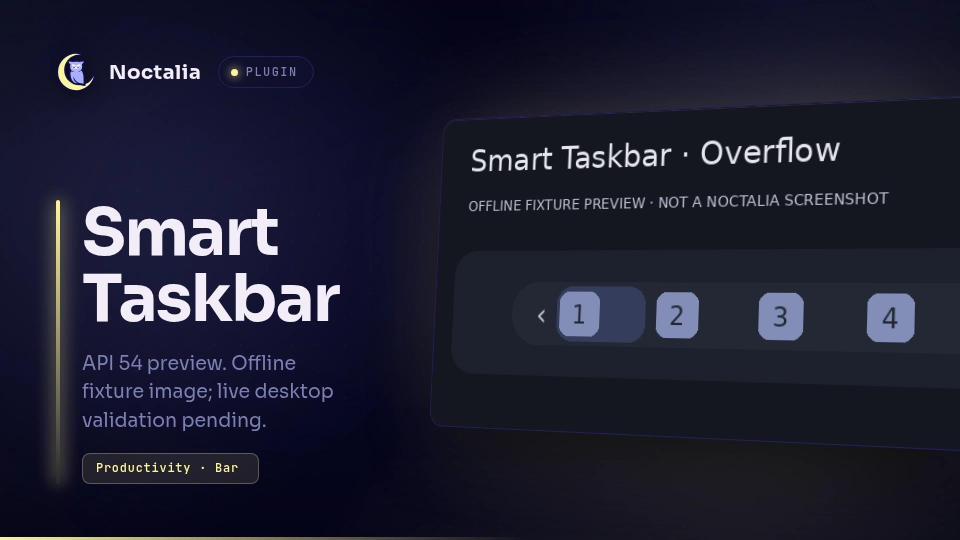
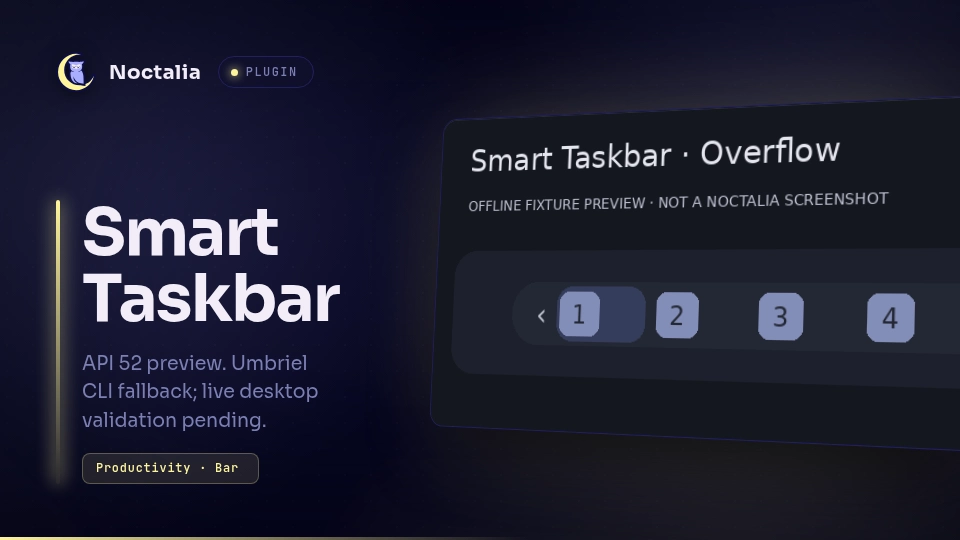
Support Umbriel on API 52 and 53 with a reconnecting public CLI stream

Changed region(s): [[0.0625, 0.6519, 0.3438, 0.7407]]

diff --git a/tests/stream_test.py b/tests/stream_test.py
@@ -1,0 +1,80 @@
+#!/usr/bin/env python3
+"""Exercise the shipped shell program with a fake Umbriel CLI, real pipes and signals.
+This tests framing/reconnect/process-group cleanup, not a running compositor or Noctalia.
+"""
+import json
+import os
+from pathlib import Path
+import selectors
+import signal
+import subprocess
+import sys
+import tempfile
+import time
+import unittest
+
+ROOT = Path(__file__).resolve().parents[1]
+COMMAND = (ROOT/'smart-taskbar/lib/transport.luau').read_text().split('M.umbrielCommand = [[',1)[1].split(']]',1)[0]
+
+class StreamTest(unittest.TestCase):
+    def test_reconnect_and_process_group_cleanup(self):
+        with tempfile.TemporaryDirectory() as directory:
+            temp = Path(directory)
+            cli = temp/'umbriel'
+            cli.write_text('#!'+sys.executable+'\n'+'''
+import json, os, pathlib, sys, time
+assert sys.argv[1:] == ["subscribe", "windows", "workspaces"]
+state = pathlib.Path(os.environ["STREAM_TEST_STATE"])
+with state.open("a") as f: f.write(str(os.getpid()) + "\\n")
+connection = len(state.read_text().splitlines())
+if connection == 1:
+    print(json.dumps({"event":"windows","data":[{"id":"one"}]}),flush=True)
+else:
+    print(json.dumps({"event":"workspaces","data":[]}),flush=True)
+    time.sleep(60)
+''')
+            cli.chmod(0o755)
+            state=temp/'pids'
+            env=dict(os.environ,PATH=directory+os.pathsep+os.environ['PATH'],STREAM_TEST_STATE=str(state))
+            process=subprocess.Popen(['/bin/sh','-c',COMMAND],env=env,stdout=subprocess.PIPE,
+                                     stderr=subprocess.PIPE,start_new_session=True)
+            selector=selectors.DefaultSelector()
+            selector.register(process.stdout,selectors.EVENT_READ)
+            pending=b''
+            messages=[]
+            try:
+                deadline=time.monotonic()+10
+                while len(messages)<5 and time.monotonic()<deadline:
+                    for key,_ in selector.select(timeout=0.2):
+                        chunk=os.read(key.fileobj.fileno(),65536)
+                        self.assertTrue(chunk,'stream unexpectedly exited')
+                        pending+=chunk
+                        while b'\n' in pending:
+                            line,pending=pending.split(b'\n',1)
+                            messages.append(json.loads(line))
+                self.assertEqual([m['event'] for m in messages],
+                                 ['reset','windows','reset','reset','workspaces'])
+                self.assertEqual(messages[1]['data'][0]['id'],'one')
+                self.assertEqual(len(state.read_text().splitlines()),2)
+                # An idle, connected CLI must not be restarted by a timer.
+                self.assertFalse(selector.select(timeout=0.2))
+                self.assertEqual(len(state.read_text().splitlines()),2)
+            finally:
+                os.killpg(process.pid,signal.SIGTERM)
+                process.wait(timeout=5)
+                selector.close()
+                process.stdout.close()
+                process.stderr.close()
+            deadline=time.monotonic()+3
+            while time.monotonic()<deadline:
+                running=[]
+                for pid in state.read_text().splitlines():
+                    status=Path('/proc')/pid/'stat'
+                    if status.exists() and status.read_text().split(') ',1)[1][0] != 'Z':
+                        running.append(pid)
+                if not running: break
+                time.sleep(0.05)
+            self.assertEqual(running,[], 'CLI child survived cancellation')
+
+if __name__=='__main__':
+    unittest.main()

diff --git a/tests/run.py b/tests/run.py
@@ -21,18 +21,21 @@ def lua(value):
         return 'true' if value else 'false'
     return json.dumps(value, ensure_ascii=False)
 
-def main():
+def run_suite(fallback=False):
     manifest = tomllib.loads((PLUGIN / 'plugin.toml').read_text())
     defaults = {s['key']: s['default'] for s in manifest['widget'][0]['setting']}
     source = 'local defaults = ' + lua(defaults) + '\n'
     source += (ROOT / 'tests/host.luau').read_text() + '\n'
-    for name in ('model', 'compositor'):
+    if fallback:
+        source += (ROOT / 'tests/fallback-host.luau').read_text() + '\n'
+    for name in ('model', 'compositor', 'transport'):
         source += 'local module_' + name + ' = (function()\n'
         source += (PLUGIN / 'lib' / (name + '.luau')).read_text() + '\nend)()\n'
     widget = (PLUGIN / 'widget.luau').read_text()
     widget = widget.replace('require("./lib/model.luau")', 'module_model')
     widget = widget.replace('require("./lib/compositor.luau")', 'module_compositor')
-    source += widget + '\n' + (ROOT / 'tests/spec.luau').read_text()
+    widget = widget.replace('require("./lib/transport.luau")', 'module_transport')
+    source += widget + '\n' + (ROOT / ('tests/fallback-spec.luau' if fallback else 'tests/spec.luau')).read_text()
     with tempfile.TemporaryDirectory() as temp:
         entry = Path(temp) / 'suite.luau'
         entry.write_text(source)
@@ -49,4 +52,5 @@ def main():
             (output / 'trees.json').write_text(json.dumps(snapshots, indent=2))
 
 if __name__ == '__main__':
-    main()
+    run_suite()
+    run_suite(fallback=True)

diff --git a/scripts/check.py b/scripts/check.py
@@ -10,7 +10,7 @@ manifest = tomllib.loads((plugin/'plugin.toml').read_text())
 catalog = tomllib.loads((root/'catalog.toml').read_text())['plugin'][0]
 for key, value in catalog.items():
     assert manifest[key] == value, f'Catalog drift: {key}'
-assert manifest['plugin_api'] == 54
+assert manifest['plugin_api'] == 52
 assert len(manifest['widget']) == 1
 assert not any(key in manifest for key in ('service', 'panel', 'layer'))
 translations = json.loads((plugin/'translations/en.json').read_text())
@@ -29,7 +29,8 @@ for entry in plugin.rglob('*.luau'):
     text = entry.read_text()
     assert text.startswith('--!nonstrict')
     assert 'ui.scroll' not in text
-    assert 'noctalia.runStream' not in text
+    if entry.name != 'transport.luau':
+        assert 'runStream(' not in text
 assert (plugin/'LICENSE').is_file()
 assert len(list((plugin/'screenshots').glob('*.png'))) == 4
 print('PASS catalog consistency, setting defaults/translations, single-entry architecture, and package assets')

diff --git a/docs/API.md b/docs/API.md
@@ -29,7 +29,7 @@ References were read before implementation on 2026-11-13:
 | Palette | Public theme roles including containers, API 43; the host repaints on palette changes |
 | Icons | Cached public `appIconPath`, including host desktop matching; no icon subprocesses |
 | Umbriel actions | `noctalia.umbriel.action`, API 45, `window-focus`, `window-close`, `window-minimize` as used by Noctalia's Umbriel backend |
-| Events | `noctalia.compositor.subscribe/unsubscribe/name`, API 54; raw Umbriel and niri schemas |
+| Events | API 54 native subscriptions when available; API 52/53 Umbriel uses public `runStream` and `umbriel subscribe windows workspaces` |
 | niri actions | CLI argument arrays only on user action; no native niri action method exposed to plugins |
 | Context menu | `panel.openContextMenu` is panel-only; no extra panel added for this single-widget release |
 | Pin/unpin | Settings API is read-only. Pin lists are edited in normal widget settings |
@@ -37,16 +37,26 @@ References were read before implementation on 2026-11-13:
 | Workspace grouping | Representative app icon for workspace groups; window counts cover the full group |
 | Manual persistence | In-memory per instance; no undocumented settings write or state file |
 
-The newest capability actually used is API 54, so `plugin_api = 54` is necessary. The official versions page labels API 44–54 unreleased. A generic “v5+ compatible” claim would be misleading; older stable releases cannot enable this plugin. There is no invented lower-API fallback.
+Version 0.1.1 requires API 52 for public container clipping. Native API 54 subscriptions are optional and used only after feature detection. On API 52/53, Umbriel events use its documented CLI through `runStream`, an existing public plugin API. Match the host’s reported API range instead of assuming every build with the same version label exposes identical capabilities. The user reported Noctalia v5.4.1 (`b096daa`) with API range 3–53; the published upstream v5.4.1 tag fetched separately reports an earlier API ceiling, so this compatibility claim is explicitly based on API level rather than all v5.4.1 packages.
 
 ## Compositor evaluation
 
 Umbriel is implemented using window/workspace snapshots and typed native actions. Core `umbriel_workspace_backend.cpp` provides the reference field/action names; the plugin does not call the C++ backend or other private interfaces. Workspace-to-output mapping prefers workspace snapshot output and falls back to Umbriel's connector-prefixed workspace IDs. Scratchpads without a workspace are hidden, following the core taskbar.
 
-niri is implemented with native `WindowsChanged`, `WindowOpenedOrChanged`, `WindowClosed`, `WindowFocusChanged`, `WorkspacesChanged`, and `WorkspaceActivated` events. Focus and close use `niri msg action ... --id`. Minimize is unavailable. Compositor integration has fixture coverage only.
+On API 54+, niri is implemented with native `WindowsChanged`, `WindowOpenedOrChanged`, `WindowClosed`, `WindowFocusChanged`, `WorkspacesChanged`, and `WorkspaceActivated` events. Focus and close use `niri msg action ... --id`. Minimize is unavailable. Compositor integration has fixture coverage only.
 
 Hyprland subscriptions are available, but provide string deltas and no initial snapshot or native plugin action method. Correct support needs an asynchronous, coalesced `hyprctl -j clients` / workspace snapshot reconciler, including reconnect races and address validation. This release deliberately declines that backend; it does not spawn repeated commands or pretend the normalized Umbriel schema applies to Hyprland. Sway/Mango/labwc/KDE subscriptions are not exposed by API 54 and also degrade to a placeholder.
 
 ## Missing capability
 
 Continuous pointer scrolling requires a native bar-compatible scroll viewport or continuous delta/offset API. Paint transforms and clipping alone do not provide native inertia or reliable pixel scrolling. The focused upstream request is prepared in [upstream-scroll-request.md](upstream-scroll-request.md). GitHub rejected issue creation with HTTP 403, so it has not been filed.
+
+## API 52/53 Umbriel transport
+
+The public [Umbriel IPC documentation](https://github.com/noctalia-dev/umbriel/blob/main/docs/user/ipc.md), reviewed at commit `33a782dc750e78f0ef2d21fd9d3df33229ae06f9`, specifies full snapshot subscriptions with initial state. Its CLI `umbriel subscribe windows workspaces` forwards newline-delimited event envelopes and explicitly flushes stdout after each line. `src/cli/ipc_client.cpp` and `src/main.cpp` confirm framing and command arguments.
+
+`lib/transport.luau` uses one constant, non-interpolated shell program through public `runStream`. The shell runs the subscription, emits reset envelopes before/after connections, and waits two seconds before reconnecting after disconnection. A healthy stream performs no window queries and has no periodic subprocess work. No helper daemon or additional scripting runtime is needed; dependencies are the existing `umbriel` CLI and standard `sleep` utility. Native window actions remain `noctalia.umbriel.action` (API 45).
+
+Noctalia’s process implementation creates a process group and cancels the group on `runStream` teardown. Because there is no individual public stream-stop method, compatibility-setting toggles detach delivery while retaining one connection and the latest full snapshots until reload/disable. Resuming replays snapshots without creating another stream. Host teardown owns shell, CLI and sleep cleanup. The real-pipe integration test verifies equivalent process-group termination with a fake CLI; actual Noctalia teardown still needs desktop acceptance.
+
+The fallback never touches `noctalia.compositor` methods when the namespace is absent. On API 52/53, niri and other compositors remain placeholders; this release does not invent a native action or event method for them.

diff --git a/smart-taskbar/README.md b/smart-taskbar/README.md
@@ -2,7 +2,7 @@
 
 A compact, collapsible application switcher with grouped window counts, focused-application reveal, and a bounded wheel-navigable icon strip. Uses one Luau bar widget and Noctalia's active theme roles.
 
-**Preview release:** requires **plugin API 54**, currently marked unreleased in the official documentation. This is not compatible with all Noctalia v5 versions. Desktop acceptance testing is pending; the images below are clearly labeled offline fixture renders, not live screenshots.
+**Preview release:** requires **plugin API 52 or newer**. Umbriel uses a CLI event stream on API 52/53 and native subscriptions on API 54+. This is not compatible with all Noctalia v5 versions. Desktop acceptance testing is pending; the images below are clearly labeled offline fixture renders, not live screenshots.
 
 ## Plugin
 
@@ -15,8 +15,9 @@ A compact, collapsible application switcher with grouped window counts, focused-
 
 ## Requirements
 
-- A Noctalia build supporting plugin API 54; Umbriel is the primary target.
-- `niri` is required on PATH only when running under niri, for focus/close actions. Events use the host's native subscription, without subprocess polling.
+- A Noctalia build supporting plugin API 52 or newer; Umbriel is the primary target. Check the supported API range rather than relying only on the Noctalia version label.
+- `umbriel` and `sleep` are required on PATH for the API 52/53 fallback. `sleep` is a standard system utility; `umbriel` is the compositor’s own CLI.
+- `niri` is required on PATH only when running under niri on API 54+, for focus/close actions. niri events use the host's native subscription. On API 52/53, niri shows a placeholder.
 - `gtk-launch` is required on PATH only to launch pinned desktop entries. On many distributions it is supplied by GTK's utilities package. Enter desktop-entry IDs with their original case.
 - Hyprland, Sway, Mango, labwc, and KDE currently show a placeholder. They do not receive guessed or unverified actions.
 
@@ -104,7 +105,7 @@ All settings use `[[widget.setting]]`, with English labels, descriptions, defaul
 | `middle_click` | `"settings"` | Host defaults to widget settings. To use these actions, explicitly set this instance’s actions.middle = "none". |
 | `refresh_fallback` | `60` | Seconds between idle subscription retries if a supported compositor could not subscribe. No subprocess polling. |
 | `diagnostic_logging` | `false` | Log subscription and action errors. Window titles are not logged. |
-| `compositor_compatibility` | `"auto"` | Unsupported compositors show a placeholder. API 54 is required even in automatic mode. |
+| `compositor_compatibility` | `"auto"` | Unsupported compositors show a placeholder. Umbriel supports API 52+. niri requires API 54 for native events. |
 
 ## IPC
 
@@ -136,6 +137,17 @@ Application IDs are normalized for grouping without fuzzy-merging distinct appli
 
 Native context menus are only public for panels, so this single-widget plugin offers settings on right click. There is no fabricated bar context menu or runtime Pin/Unpin operation. Animations fade expanded content briefly at 30 Hz; no frame loop runs while idle. Manual order is not persisted, workspace sorting follows snapshot order/index, and launch order means first observed since connection.
 
-The plugin makes **no network calls and no filesystem writes**. It uses one native compositor subscription per widget instance, cached host icon lookup, and host actions. Only explicit pin launches and niri window actions spawn processes. No repeated subprocesses run per icon or frame. Theme colors remain role references and follow host palette changes without a private theme API.
+The plugin makes **no network calls and no filesystem writes**. On API 54+ it uses one native compositor subscription per widget instance. On API 52/53 with Umbriel, it uses one host-managed `runStream` shell running `umbriel subscribe windows workspaces`. It reconnects two seconds after a disconnection and clears stale snapshots. A healthy stream is idle until an event arrives; no repeated window queries run. The shell, CLI, and reconnect sleep are in Noctalia’s process group and are canceled on widget reload/disable. A compatibility-setting toggle pauses delivery and replays cached full snapshots on resume, keeping the same single stream until teardown. Explicit pin launches and niri window actions also spawn processes. No subprocesses run per icon or frame. Theme colors remain role references and follow host palette changes without a private theme API.
 
 Installation commands and placement syntax were checked against official documentation. Manifest and Luau fixture tests ran; enabling, adding the widget, real pointer behavior, multi-monitor scaling, hot reload, compositor restarts, and resource measurements still require a live Noctalia session. See the source repository's `docs/TESTING.md` for the complete acceptance matrix. Do not interpret this preview as production acceptance.
+
+## Update from 0.1.0 on Umbriel
+
+Version 0.1.1 removes the API 54 event-subscription requirement for Umbriel. Its minimum is API 52 because the viewport uses public container clipping. Run:
+
+```sh
+noctalia msg plugins update smart-taskbar
+noctalia msg plugins enable omardardery/smart-taskbar
+```
+
+Use the source name you originally added if it differs from `smart-taskbar`. The plugin version should show **0.1.1** and API **52**. Then add the widget in Bar settings. Native desktop acceptance is still pending.

diff --git a/docs/TESTING.md b/docs/TESTING.md
@@ -4,13 +4,15 @@ Executed on 2026-11-13 in the attached Linux cloud environment.
 
 ## Checks that actually ran
 
-- **24 executable Luau fixture tests passed.** The harness executes the shipped model, compositor adapter, and widget entry with deterministic public host functions, event callbacks, UI constructors, and a simulated clock. It does not emulate native layout or real input delivery.
+- **34 executable Luau fixture tests passed** (24 existing scenarios plus 10 API 52/53 compatibility tests). The harness executes the shipped model, compositor adapter, and widget entry with deterministic public host functions, event callbacks, UI constructors, and a simulated clock. It does not emulate native layout or real input delivery.
 - **2,275 layout combinations** exercised within the width test: maximum extents 48–496 by 7, icon sizes 12–48 by 6, and counts 0/1/5/16/100. Includes cross-field minimum width exceeding maximum width. Every computed root extent stayed within its maximum; capacity never became zero.
 - Default side-bar tree width fits the standard 34-pixel bar; vertical main-axis extent is bounded. This is a tree assertion, not a rendered DPI check.
 - **Official community manifest validation passed**, using exact community-pinned validator commit `99a892dc9cb3490634412701c45acd024fe0383b`.
 - **All 178 tests of that official validator passed.** Those tests validate the validator, not Smart Taskbar's desktop behavior.
-- All three shipped Luau files compiled with the official `luau-compile --null` command. Luau CLI commit: `f46d879e28302a430029304f7f6a162aed66f103`.
+- All four shipped Luau files compiled with the official `luau-compile --null` command. Luau CLI commit: `f46d879e28302a430029304f7f6a162aed66f103`.
 - Additional package checks verify custom catalog consistency, setting defaults/translations, the single-widget architecture, and required assets.
+- **One real-pipe shell integration test passed** with a fake Umbriel CLI: exact command arguments, JSON-line snapshot forwarding, reset on disconnect, two-second reconnect, no restarts while connected/idle, and child-process cleanup on process-group cancellation. This does not start a real compositor or Noctalia.
+- The API 52/53 harness runs the actual entry with `noctalia.compositor` absent, covering startup, grouped actions, malformed lines, reconnect resets, cached replay without duplicate streams, missing commands, idle updates, and exit callback detachment.
 - The fixture confirms 1,000 idle `update()` callbacks issue **zero renders and zero icon lookups**. This is not a CPU, memory, latency, or native idle-resource measurement.
 
 ## Acceptance matrix
@@ -46,7 +48,8 @@ Requires Python 3.11+ and the official Luau CLI:
 
 ```sh
 LUAU=/path/to/luau python3 tests/run.py
-/path/to/luau-compile --null smart-taskbar/widget.luau smart-taskbar/lib/model.luau smart-taskbar/lib/compositor.luau
+/path/to/luau-compile --null smart-taskbar/widget.luau smart-taskbar/lib/model.luau smart-taskbar/lib/compositor.luau smart-taskbar/lib/transport.luau
+python3 tests/stream_test.py
 python3 scripts/check.py
 ```
 
@@ -65,8 +68,10 @@ The included GitHub Actions workflow runs manifest validation, compilation, fixt
 
 ## Required desktop acceptance before production
 
-Use a Noctalia API 54 build and Umbriel. Install the local path source, enable the plugin, add `omardardery/smart-taskbar:taskbar`, and set bar/widget scale to 1, host capsule off, capsule padding 0, and no custom label/group wrapper. Create the windows listed above and confirm the native widget extent never exceeds 420 logical pixels. Record the exact Noctalia and compositor versions and capture actual screenshots of all four states.
+Use a Noctalia API 52+ build and Umbriel. Test both the CLI transport on API 52/53 and native subscriptions on API 54+. Install the local path source, enable the plugin, add `omardardery/smart-taskbar:taskbar`, and set bar/widget scale to 1, host capsule off, capsule padding 0, and no custom label/group wrapper. Create the windows listed above and confirm the native widget extent never exceeds 420 logical pixels. Record the exact Noctalia and compositor versions and capture actual screenshots of all four states.
 
 Repeat on top, bottom, left and right bars, then at 100%, 160%, and mixed monitor scaling. Check real icon loading, pointer movement across inline cells, hover delays, touchpad direction changes, menu/settings precedence, and dragging past widget boundaries. Change every settings category while running, reload the Luau module, restart the compositor, and restart Noctalia. Repeat focus/close on niri; verify its unavailable minimize action reports gracefully.
 
 Use the Noctalia build's `noctalia plugins lint` help for the current lint invocation and run its config validator against the installed configuration. Measure idle CPU/RSS and focus-to-highlight latency with the actual shell; investigate warnings rather than suppressing them. Mark each desktop row only after recording its result. Keep the community PR draft until these checks and real screenshots are complete.
+
+Version 0.1.1 is intended for the user-reported API 3–53 desktop and declares minimum API 52. It has no direct native-desktop test result yet. The original 0.1.0 API 54 compatibility gate was confirmed to prevent enabling there; this update replaces that event-transport requirement with a tested public CLI fallback.

diff --git a/docs/community-pr.md b/docs/community-pr.md
@@ -8,15 +8,15 @@
 
 ## What it does
 
-Smart Taskbar is one API 54 Luau bar widget with stable collapsed extent, grouped numeric counts, native whole-widget hover expansion, click/always modes, and a bounded 420-logical-pixel default expanded extent. Overflow uses a clipped virtualized icon strip with wheel navigation and focus reveal. Umbriel is the primary adapter; niri receives events natively and uses its CLI on explicit focus/close actions.
+Smart Taskbar is one API 52+ Luau bar widget with stable collapsed extent, grouped numeric counts, supported hover expansion, click/always modes, and a bounded 420-logical-pixel default expanded extent. Overflow uses a clipped virtualized icon strip with wheel navigation and focus reveal. Umbriel is the primary adapter; niri receives events natively and uses its CLI on explicit focus/close actions.
 
-Manual drag ordering stays within the widget and is in-memory. In manual mode expansion stays open until explicitly clicked because the public API lacks drag-start/end callbacks. Right click opens settings because native context menus are panel-only. Pin lists are settings-driven because configuration is read-only. Stable v5.4.1 is not supported: API 54 is documented as unreleased.
+Manual drag ordering stays within the widget and is in-memory. In manual mode expansion stays open until explicitly clicked because the public API lacks drag-start/end callbacks. Right click opens settings because native context menus are panel-only. Pin lists are settings-driven because configuration is read-only. Version 0.1.1 supports Umbriel on API 52/53 through its public CLI event stream; API 54+ uses native subscriptions. The host’s API range is authoritative.
 
 **Keep this PR draft.** The cloud environment has no Noctalia/compositor executable/session. Native installation, compositor actions, screenshots, device gestures, scaling and resource measurements are pending. The visual assets are clearly labeled offline fixture previews, not live screenshots.
 
 ## External dependencies
 
-Manifest dependencies: `gtk-launch` (only explicit pinned desktop launches) and `niri` (only niri focus/close actions). Commands use argument arrays. Umbriel actions and all event subscriptions use the host API. No subprocess polling, daemon, database, or state file.
+Manifest dependencies: `umbriel` and `sleep` (one reconnecting host-managed CLI event stream on API 52/53), `gtk-launch` (only explicit pinned desktop launches) and `niri` (only niri focus/close actions). Commands use argument arrays. Umbriel window actions use the host API; subscriptions prefer native API 54 and use `runStream` on API 52/53. No subprocess polling, daemon, database, or state file. The single host-owned shell/CLI stream reconnects after two seconds on disconnection; Noctalia cancels its process group on reload/disable.
 
 Network calls: none. Filesystem writes: none. Host icon lookup reads icon/desktop-entry files through `appIconPath`. Window titles are displayed locally and never logged. No downloaded code executes at plugin runtime.
 
@@ -27,9 +27,9 @@ Network calls: none. Filesystem writes: none. Host icon lookup reads icon/deskto
 - [ ] Tested on Sway
 - [ ] Tested on another compositor: Umbriel live session pending
 - **Noctalia version tested against:** no running shell; source/API reviewed at core commit `42581ce5d3599be9cf54e971607c2d3ae43525fe`
-- **Plugin API level:** 54
+- **Plugin API level:** 52
 
-24 Luau fixture tests pass, including 2,275 width combinations, five-window badge/cycling, twenty-app overflow, focus reveal, filters, aliases, pinned running windows, drag reorder, safe actions, setting changes and reset recovery. All three sources compile with `luau-compile`. Canonical community manifest validation passes at the exact community-pinned validator `99a892dc9cb3490634412701c45acd024fe0383b`, whose 178 tests also pass. These tests do not establish desktop acceptance.
+34 Luau fixture tests pass, including 2,275 width combinations, five-window badge/cycling, twenty-app overflow, focus reveal, filters, aliases, pinned running windows, drag reorder, safe actions, setting changes and reset recovery. All four sources compile with `luau-compile`. Canonical community manifest validation passes at the exact community-pinned validator `99a892dc9cb3490634412701c45acd024fe0383b`, whose 178 tests also pass. A real-pipe shell integration test verifies snapshot framing, disconnect reset, reconnect, and process-group cleanup with a fake Umbriel CLI. Noctalia desktop acceptance remains pending.
 
 ## Screenshots / Videos
 

diff --git a/docs/PUBLISHING.md b/docs/PUBLISHING.md
@@ -1,6 +1,6 @@
 # Distribution and publication status
 
-Version **0.1.0 preview**, canonical plugin ID `omardardery/smart-taskbar`, entry `taskbar`, minimum API **54**.
+Version **0.1.1 preview**, canonical plugin ID `omardardery/smart-taskbar`, entry `taskbar`, minimum API **52**.
 
 The publisher created the public source repository [OmarDardery/smart-taskbar-noctalia](https://github.com/OmarDardery/smart-taskbar-noctalia) and [community fork](https://github.com/OmarDardery/community-plugins). The repository name differs from the canonical plugin ID; the plugin directory remains `smart-taskbar/`, as required by Noctalia.
 
@@ -13,7 +13,7 @@ noctalia msg plugins enable omardardery/smart-taskbar
 
 Add `omardardery/smart-taskbar:taskbar` in Bar settings. Set host capsule off, capsule padding 0, bar and widget scale 1, and no custom label/group wrapper padding for a matching outer width budget.
 
-Source layout, catalog, manifest, source compilation and executable fixture tests have been validated. Real enabling/bar placement and the [desktop acceptance matrix](TESTING.md) require a Noctalia API 54 session and remain pending. Keep community submission draft until live testing and actual screenshots are complete. The committed previews are explicitly labeled offline fixtures.
+Source layout, catalog, manifest, source compilation and executable fixture tests have been validated. Real enabling/bar placement and the [desktop acceptance matrix](TESTING.md) require a Noctalia API 52+ Umbriel session and remain pending. Keep community submission draft until live testing and actual screenshots are complete. The committed previews are explicitly labeled offline fixtures.
 
 ## Submission
 
@@ -32,3 +32,9 @@ The PR description currently contains the unfilled GitHub template. Attempting t
 Upstream issue creation remains blocked; the focused scrolling request is prepared in [upstream-scroll-request.md](upstream-scroll-request.md). Live desktop acceptance and real screenshots remain pending.
 
 The PR description was filled in, but upstream enforcement flagged three shortened checklist items. The prepared body now preserves the exact upstream checklist wording and passes the upstream draft-description checker locally. The publisher must paste the corrected body because the integration cannot edit upstream PR metadata.
+
+## Version 0.1.1 compatibility update
+
+The user’s desktop reports API range 3–53. Version 0.1.1 lowers the minimum to API 52 by adding a public Umbriel CLI event transport; API 54 native subscriptions remain optional. The code has 34 passing Luau fixture tests and one passing real-pipe/process-group test with a fake CLI. Actual desktop execution remains pending. Both the custom source and existing community PR branch carry the update; no new PR is required.
+
+The upstream PR title/body may still mention API 54 until edited manually. Use the updated prepared body in `docs/community-pr.md` and title **Add Smart Taskbar application switcher (API 52 preview)** when updating its metadata. Keep it draft.

diff --git a/README.md b/README.md
@@ -1,8 +1,8 @@
 # Smart Taskbar
 
-A Noctalia **API 54** application switcher, distributed as one bar widget. Source and installation documentation are in [smart-taskbar/README.md](smart-taskbar/README.md).
+A Noctalia **API 52+** application switcher, distributed as one bar widget. Source and installation documentation are in [smart-taskbar/README.md](smart-taskbar/README.md).
 
-Version 0.1.0 is a preview release. The Luau fixture tests and official community manifest validation run locally; live Noctalia desktop validation is pending. API 54 is marked **unreleased** in the official documentation checked on November 13, 2026. Stable v5.4.1 does not provide every API used here.
+Version 0.1.1 is a preview release. The Luau fixture tests and official community manifest validation run locally; live Noctalia desktop validation is pending. Umbriel now works with API 52/53 through its public CLI stream. API 54+ uses native subscriptions. Match the host’s reported API range; version labels alone are insufficient.
 
 - [Settings reference](docs/settings.md)
 - [Validation and desktop test matrix](docs/TESTING.md)
@@ -17,11 +17,11 @@ LUAU=/path/to/luau python3 tests/run.py
 
 The tests execute the shipped Luau source with a deterministic host fixture. They do not start Noctalia or a compositor. Optional labeled offline previews can be regenerated with `python3 tests/preview.py` after installing Pillow in your development environment.
 
-The plugin itself needs no Python, browser, daemon, network access, or state files. See the plugin README for conditional CLI requirements.
+The plugin itself needs no Python, browser, daemon, network access, or state files. On API 52/53 with Umbriel it starts one host-managed shell/CLI event stream. See the plugin README for conditional CLI requirements.
 
 ## Install the published preview
 
-Requires a Noctalia build supporting **plugin API 54**:
+Requires a Noctalia build supporting **plugin API 52 or newer**:
 
 ```sh
 noctalia msg plugins source add smart-taskbar git https://github.com/OmarDardery/smart-taskbar-noctalia
@@ -31,3 +31,5 @@ noctalia msg plugins enable omardardery/smart-taskbar
 Add `omardardery/smart-taskbar:taskbar` in Bar settings. Native enabling and desktop behavior still require live acceptance testing. See the plugin README for width-budget setup and compatibility details.
 
 Community submission: [draft PR #1434](https://github.com/noctalia-dev/community-plugins/pull/1434). Automated checks pass; live desktop acceptance remains pending.
+
+Update an existing source with `noctalia msg plugins update smart-taskbar`, then enable the plugin again. Version 0.1.1 declares API 52.

diff --git a/docs/settings.md b/docs/settings.md
@@ -40,4 +40,4 @@
 | `middle_click` | `"settings"` | Host defaults to widget settings. To use these actions, explicitly set this instance’s actions.middle = "none". |
 | `refresh_fallback` | `60` | Seconds between idle subscription retries if a supported compositor could not subscribe. No subprocess polling. |
 | `diagnostic_logging` | `false` | Log subscription and action errors. Window titles are not logged. |
-| `compositor_compatibility` | `"auto"` | Unsupported compositors show a placeholder. API 54 is required even in automatic mode. |
+| `compositor_compatibility` | `"auto"` | Unsupported compositors show a placeholder. Umbriel supports API 52+. niri requires API 54 for native events. |
